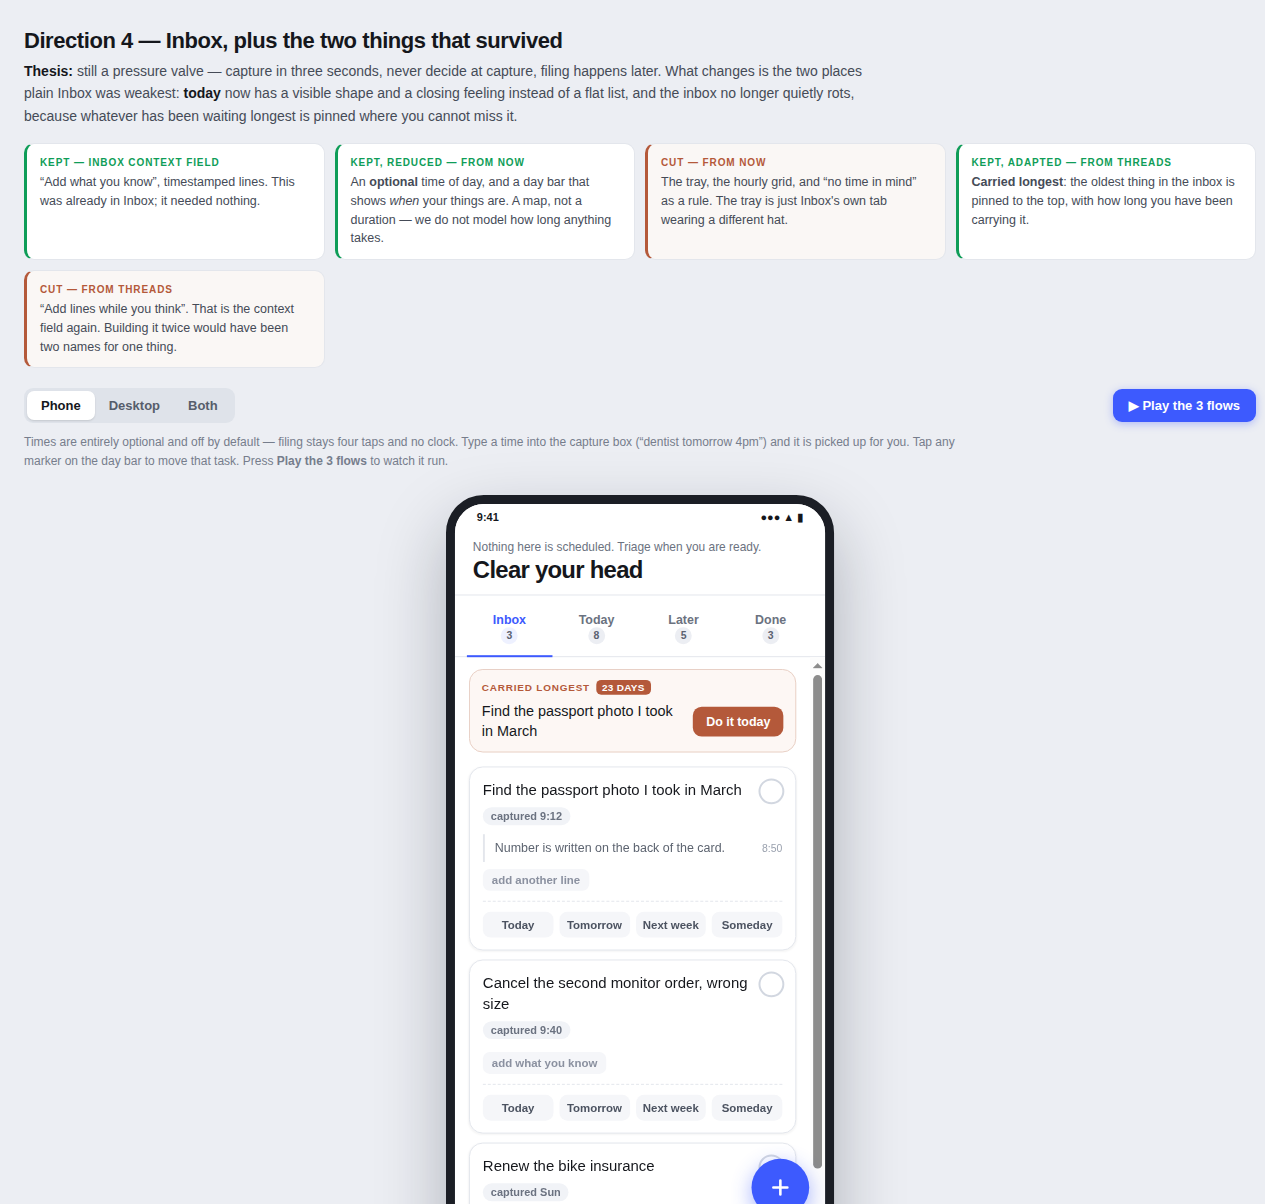
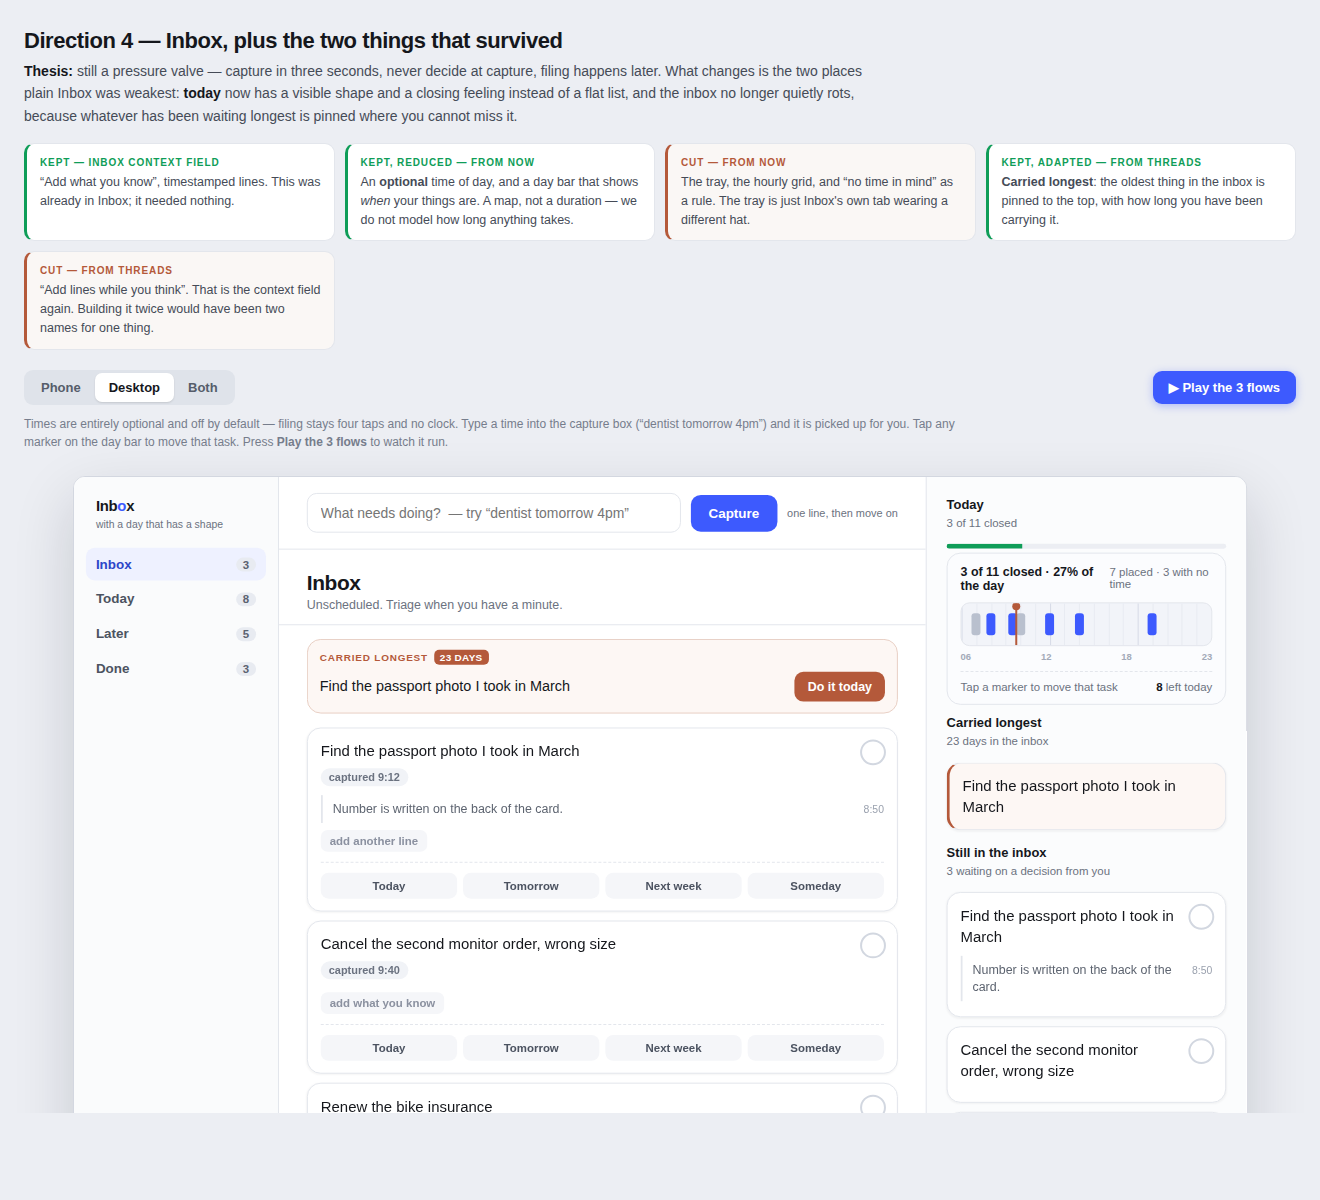
Never guess a day from a bare time; delete the 1200px magic number
Capture no longer infers a day when only a time is typed. "call mum at
9am" stays undated and keeps 09:00, surfacing the time at triage instead
of inventing an overdue item nobody created.

Verified in the browser: capturing "call mum at 9am" in Direction 4
yields when=null, time=9. Nothing typed is discarded; no day is guessed.

Also removes a hardcoded innerWidth<1200 phone flip that duplicated and
contradicted the existing legibility guard. The page now starts on Both
and demotes only from measured geometry.

diff --git a/design/fourth/index.html b/design/fourth/index.html
@@ -568,7 +568,7 @@ function sheetHTML(){
       <button data-act="quick" data-when="" aria-pressed="${store.quick === ""}">No date</button>
     </div>
     <button class="save" data-act="save">Save</button>
-    <div class="hintline">A time is optional. Type one and it is picked up — leave it out and the task still counts.</div>
+    <div class="hintline">Type a day to file it (“dentist tomorrow 4pm”). A time on its own is kept, but the task waits in your inbox — we never guess which day you meant.</div>
   </div>`;
 }
 
@@ -856,9 +856,10 @@ document.getElementById("play").addEventListener("click", runDemo);
 render();
 fitStage();
 window.addEventListener("load", fitStage);
-// Below laptop width there is no room for both frames side by side. Showing the
-// phone view alone beats showing two illegibly shrunk ones.
-if (window.innerWidth < 1200) setView("phone"); else setView("both");
+// No magic width. Start on Both and let the legibility guard in fitStage() decide
+// from the actual geometry — it demotes to the phone view only when two frames
+// would each shrink past legibility. One rule instead of two that can disagree.
+setView("both");
 </script>
 </body>
 </html>

diff --git a/design/inbox/index.html b/design/inbox/index.html
@@ -680,9 +680,10 @@ document.getElementById("play").addEventListener("click", runDemo);
 render();
 fitStage();
 window.addEventListener("load", fitStage);
-// Below laptop width there is no room for both frames side by side. Showing the
-// phone view alone beats showing two illegibly shrunk ones.
-if (window.innerWidth < 1200) setView("phone"); else setView("both");
+// No magic width. Start on Both and let the legibility guard in fitStage() decide
+// from the actual geometry — it demotes to the phone view only when two frames
+// would each shrink past legibility. One rule instead of two that can disagree.
+setView("both");
 </script>
 </body>
 </html>

diff --git a/design/now/index.html b/design/now/index.html
@@ -564,9 +564,10 @@ document.getElementById("play").addEventListener("click", runDemo);
 render();
 fitStage();
 window.addEventListener("load", fitStage);
-// Below laptop width there is no room for both frames side by side. Showing the
-// phone view alone beats showing two illegibly shrunk ones.
-if (window.innerWidth < 1200) setView("phone"); else setView("both");
+// No magic width. Start on Both and let the legibility guard in fitStage() decide
+// from the actual geometry — it demotes to the phone view only when two frames
+// would each shrink past legibility. One rule instead of two that can disagree.
+setView("both");
 </script>
 </body>
 </html>

diff --git a/design/threads/index.html b/design/threads/index.html
@@ -485,9 +485,10 @@ document.getElementById("play").addEventListener("click", runDemo);
 render();
 fitStage();
 window.addEventListener("load", fitStage);
-// Below laptop width there is no room for both frames side by side. Showing the
-// phone view alone beats showing two illegibly shrunk ones.
-if (window.innerWidth < 1200) setView("phone"); else setView("both");
+// No magic width. Start on Both and let the legibility guard in fitStage() decide
+// from the actual geometry — it demotes to the phone view only when two frames
+// would each shrink past legibility. One rule instead of two that can disagree.
+setView("both");
 </script>
 </body>
 </html>
